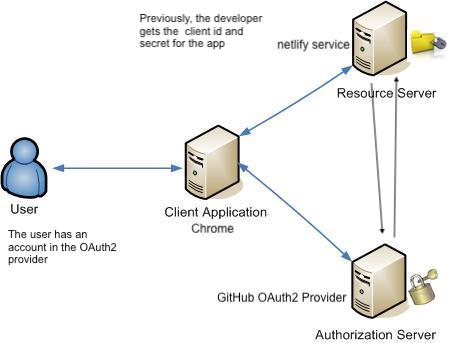
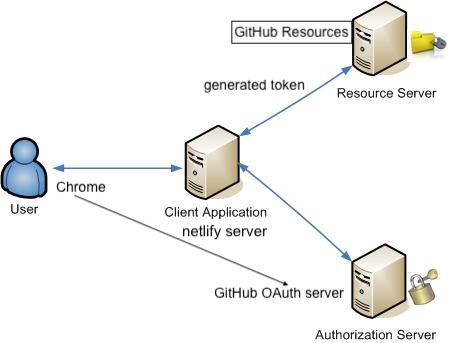
2223

diff --git a/docs/src/temas/web/netlify-github-oauth.md b/docs/src/temas/web/netlify-github-oauth.md
@@ -13,11 +13,11 @@ OAuth2 is a widely accepted standard used by many services and APIs, but
 4. the **signed request** is signed with a secret **that you can never expose to the client side of your application**.
 :::
 
-Thus, we have the user of our application, the browser,  the server, and the OAuth server:
+Thus, we have several players: the developer of the application, the user of the application, the browser,  the (web) application, the resource server and the OAuth server. The picture only shows some of them
 
 ![](/images/oauth-players.jpg)
 
-Netlify solves this problem by providing an integrated service in their serves **that will sign the OAuth requests for our programs** and give back an **access token** ready to use.
+Netlify solves this problem by providing an integrated service in their servers **that will sign the OAuth requests for our programs** and give back an **access token** ready to use.
 
 Netlify currently supports authentication with 
 
